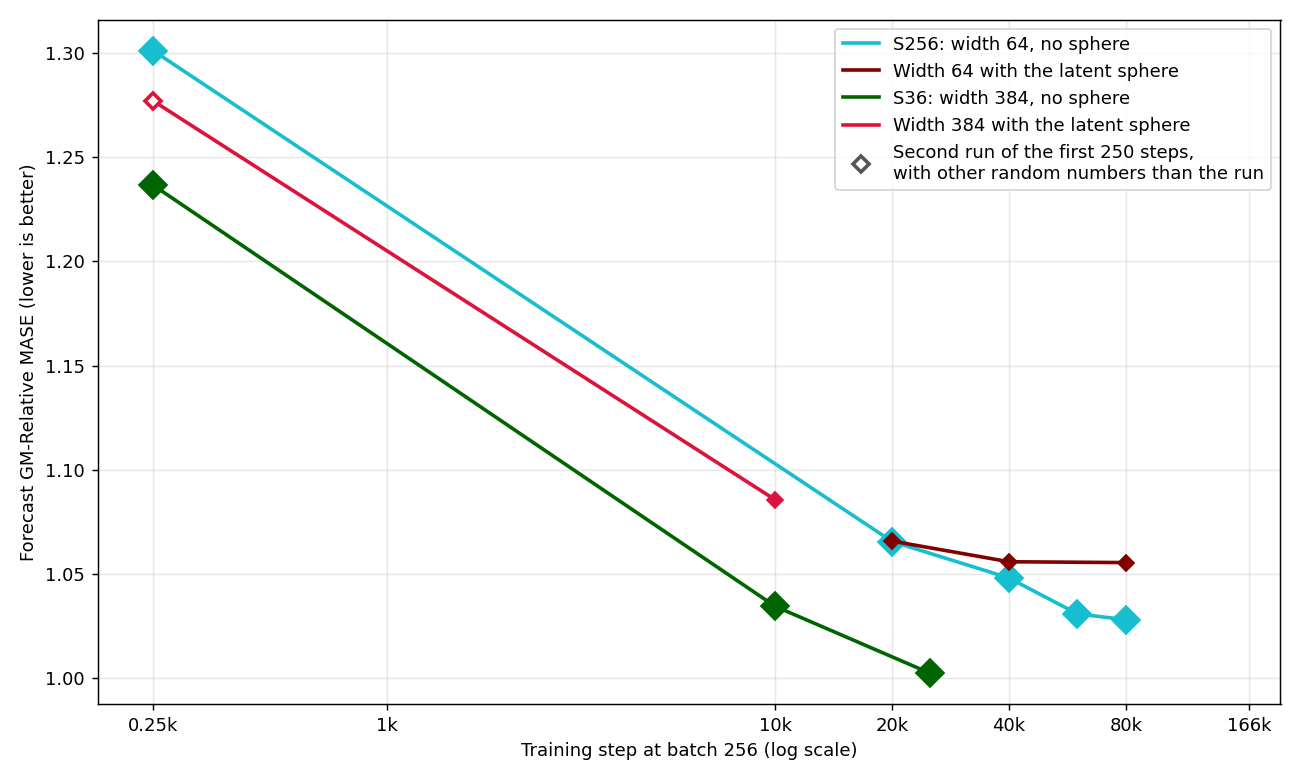
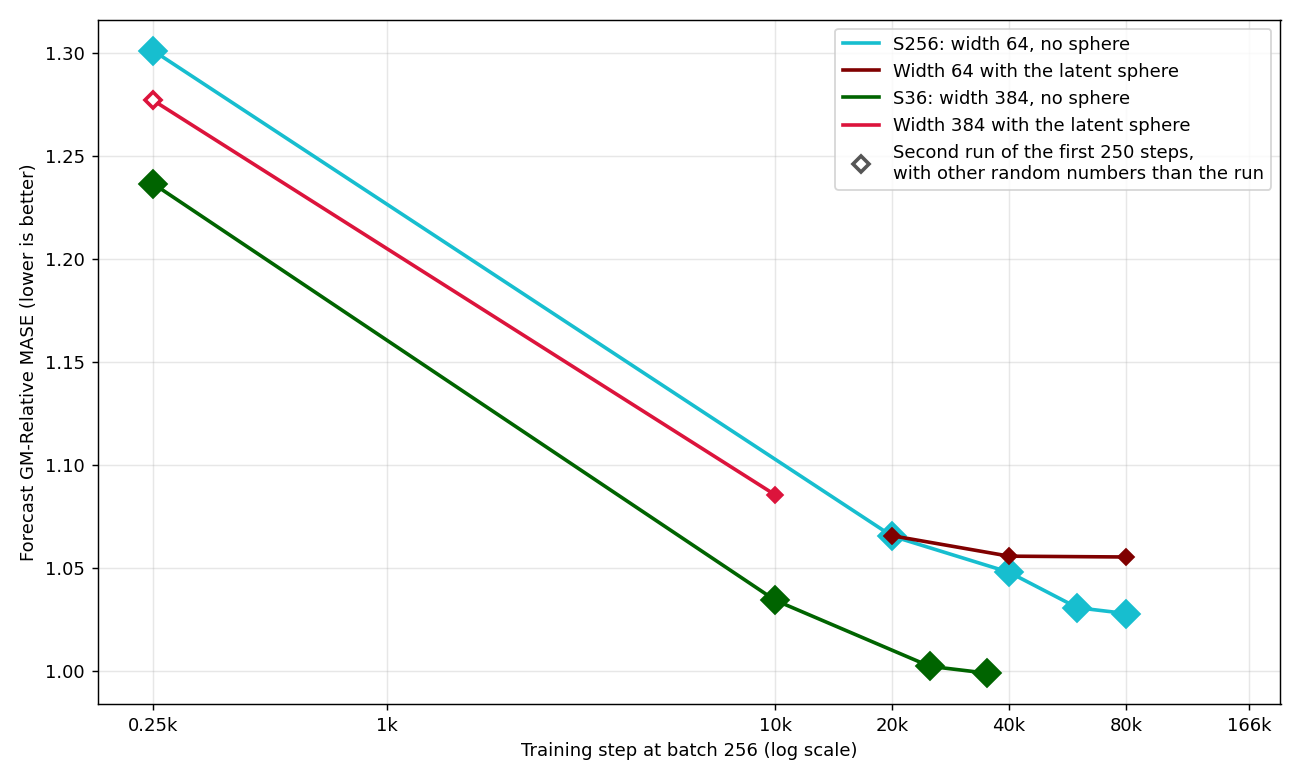
freq_family report: S36 at 35k, 0.9992

diff --git a/reports/2026-10-10_frequency_family_head/frequency_family_head.md b/reports/2026-10-10_frequency_family_head/frequency_family_head.md
@@ -28,9 +28,10 @@ The forecast panel also shows one run of the 40k grid at the data it saw, S256: 
 The heatmap compares it with the other runs of the grid.
 With the SIGReg target at a latent norm of about √64 = 8, S256 gets 1.3010 after 250 steps of batch 256 (1k on the axis), 1.0656 at 20k, 1.0481 at 40k steps of batch 256 (160k on the axis), 1.0309 at 60k (240k on the axis) and 1.0281 at 80k (320k on the axis).
 S36 is S256 at width 384 with muP: 3 encoder and 6 forecaster layers, the SIGReg target at a latent norm of about √384 = 19.6, and 166k steps of batch 256 with the EMA ramp over the 166k steps.
-It gets 1.2365 after 250 steps (1k on the axis), 1.0345 at 10k (40k on the axis) and 1.0025 at 25k (100k on the axis).
+It gets 1.2365 after 250 steps (1k on the axis), 1.0345 at 10k (40k on the axis), 1.0025 at 25k (100k on the axis) and 0.9992 at 35k (140k on the axis).
 At 10k, its short, medium and long scores are 0.9384, 1.1893 and 1.1616, and MPE gets 1.0247.
 At 25k, its short, medium and long scores are 0.9008, 1.1639 and 1.1429, and MPE gets 0.9841.
+At 35k, they are 0.9086, 1.1411 and 1.1223.
 SPH36 is S36 with the latent sphere, scored with the head path of #454: 1.2769 after 250 steps and 1.0856 at 10k.
 An open marker shows its point after 250 steps: it comes from a second run with other random numbers than the run.
 S24 is S36 with 2 encoder and 4 forecaster layers.
@@ -132,7 +133,7 @@ The heatmap row gives the 40k and 80k scores of the fixed head path.
 
 The figure compares the runs with the latent sphere and the same runs without it, at batch 256, with the scores of the fixed head path only: width 64 to 80k steps, and width 384 (S36) to 166k steps.
 The sphere run of width 384 gets 1.2769 after 250 steps and 1.0856 at 10k (short 0.9513, medium 1.2997, long 1.2817).
-S36 gets 1.2365 and 1.0345 (short 0.9384, medium 1.1893, long 1.1616), then 1.0025 at 25k.
+S36 gets 1.2365 and 1.0345 (short 0.9384, medium 1.1893, long 1.1616), then 1.0025 at 25k and 0.9992 at 35k.
 At 10k, the sphere run is 0.0511 higher, mostly on the medium and long horizons.
 This point of the sphere run comes from a second run of its first 250 steps on elisa, with torch 2.8.0.
 The run trained on the box with torch 2.9.1, and the losses already differ at step 1 (55.33 and 55.42), so an open marker shows the point.
